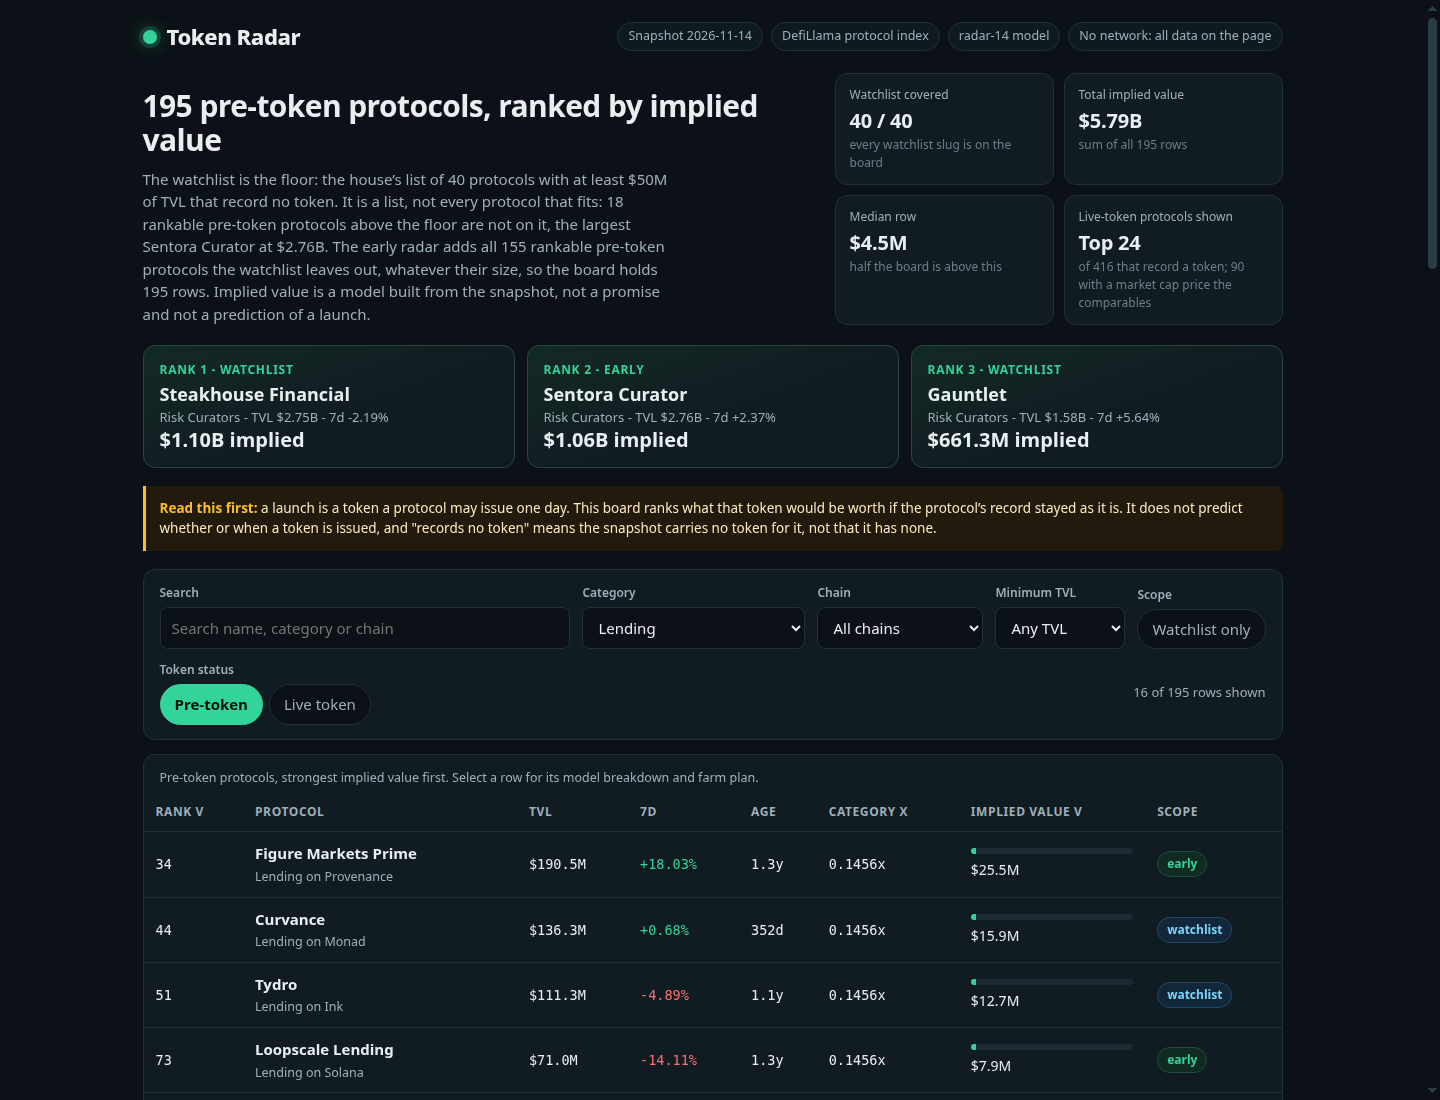
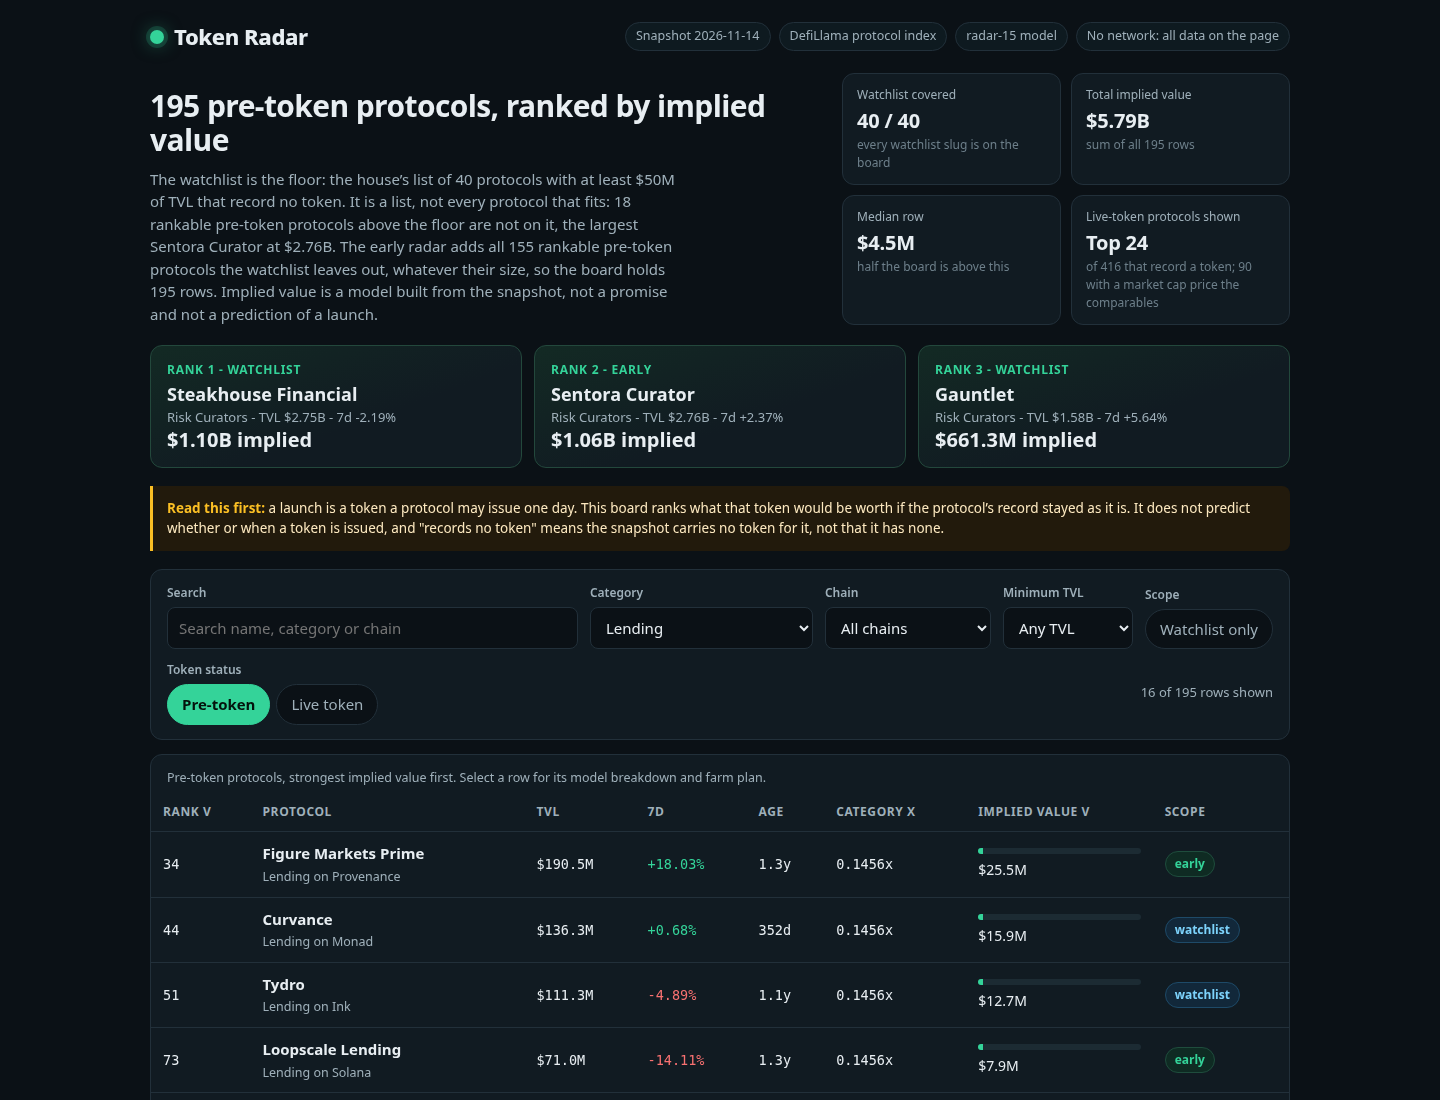
Token Radar radar-15: settle BSquared gas (BTC), rewrite Hive Protocol farm plan as B2 Hive BTC staking
Hive Protocol (rank 13) is B2 Hive, the network's own BTC staking pool
(DefiLlama: 'Stake BTC, safeguard B2, and receive $B2 Tokens'), not a
chain, so the chain shape told its farmer to bridge USDC onto a network
the protocol is not. Its plan now stakes BTC for B2 rewards. Its gas is
BTC: the farm runs on the B2 rollup (B2 Mainnet, chain 223), whose native
token is BTC, while B2 is gas only on the B2 Hub (chain 213), the DA layer
a farmer never transacts on. No row is left on the generic wording.
Also corrects radar-14's count (33 of 34 named a token; the board had
31: Tempo's stablecoin and Proton's no-gas line were counted as tokens;
now 32 of 34 name a real token) and fixes the Live view styling an
unreported 7d growth as falling while printing n/a. Board unchanged:
same 195 rows, ranks and implied values; only Hive's farm plan moves.

diff --git a/lib/model.ts b/lib/model.ts
@@ -1,4 +1,4 @@
-// Token Radar's model (radar-14): one sealed snapshot in, one ranked board out.
+// Token Radar's model (radar-15): one sealed snapshot in, one ranked board out.
 //
 // The board covers every slug in the snapshot's watchlist (the floor, never a
 // ceiling) plus every other rankable pre-token protocol the watchlist leaves
@@ -19,7 +19,7 @@
 // aside and why, instead of taking the board's completeness on trust.
 //
 // Implied value follows only from the snapshot's own figures, through one
-// function applied to every row. No protocol name is ever special-cased.
+// function applied to every row. No protocol name is ever special-cased in the scoring.
 //
 //   comparable  = median(mcap_usd / tvl_usd) over the live-token protocols
 //                 in the same category, shrunk toward the market median
@@ -122,7 +122,7 @@ export const MODEL: ModelConstants = {
 };
 
 /** The model's version label: the dashboard names it. */
-export const MODEL_VERSION = 'radar-14';
+export const MODEL_VERSION = 'radar-15';
 
 /** How many live-token protocols the Live token view carries, by market cap. */
 export const LIVE_ROWS = 24;
@@ -611,11 +611,12 @@ function trackFor(p: SnapshotProtocol): string {
  * (its tokenomics docs: every transaction pays 0.01 USDST, and paying gas in
  * STRATO is the planned design, not the live one), and Qubic's is QUBIC as
  * energy (plain transfers are feeless, but smart-contract execution burns
- * QUBIC, so a farm's contract calls still need it). Tempo has no native gas
+ * QUBIC, so a farm's contract calls still need it). BSquared's is BTC: the
+ * farm runs on the B² rollup (B² Mainnet, chain 223), whose native token is
+ * BTC, while B2 is gas only on the B² Hub (chain 213), the data-availability
+ * layer a farmer never transacts on. Tempo has no native gas
  * token: fees are paid in any supported USD stablecoin, so the step names
- * that instead of a ticker. One chain stays on the generic wording because
- * no public record settles its gas token: BSquared (B2 pays gas on its hub,
- * BTC on its rollup, and the sources disagree on which a farmer needs).
+ * that instead of a ticker.
  * Proton returns null: XPR Network charges no gas fee, so the wallet step
  * says so instead of naming a token that does not exist. */
 function gasTokenFor(chain: string): string | null {
@@ -626,7 +627,7 @@ function gasTokenFor(chain: string): string | null {
     Stellar: 'XLM', Flare: 'FLR', Berachain: 'BERA', Mantle: 'MNT', Sonic: 'S', Sei: 'SEI', Celo: 'CELO', Ronin: 'RON', Bittensor: 'TAO', Algorand: 'ALGO', Ripple: 'XRP', Starknet: 'STRK', Monad: 'MON',
     Arc: 'USDC', Provenance: 'HASH', Plasma: 'XPL', 'Robinhood Chain': 'ETH', RISE: 'ETH', Noble: 'USDC', Manta: 'ETH', Mezo: 'BTC', XION: 'XION',
     'Reya Network': 'ETH', Tempo: 'a USD stablecoin', Stable: 'USDT0', Morph: 'ETH', RSK: 'RBTC', Klaytn: 'KAIA', Kava: 'KAVA', Canton: 'CC',
-    'Bifrost Network': 'BFC', Fluent: 'ETH', Stacks: 'STX', 'Plume Mainnet': 'PLUME', Pharos: 'PROS', Strato: 'USDST', Qubic: 'QUBIC',
+    'Bifrost Network': 'BFC', Fluent: 'ETH', Stacks: 'STX', 'Plume Mainnet': 'PLUME', Pharos: 'PROS', Strato: 'USDST', Qubic: 'QUBIC', BSquared: 'BTC',
   };
   return known[chain] ?? `${chain}'s native gas token`;
 }
@@ -696,19 +697,29 @@ function exitFor(p: SnapshotProtocol): string {
 /**
  * A protocol's farm plan: seven steps, each an action with a cost and a time.
  * The plan is derived from the protocol's own record (category, chains, TVL
- * and age), never from a hand-written list of names. Step 1 names the gas
+ * and age), with one disclosed exception: Hive Protocol, whose record lists
+ * B²'s own BTC staking pool under category Chain (see below), so the chain
+ * shape would tell its farmer to bridge onto a network the protocol is not.
+ * Step 1 names the gas
  * token of the protocol's own first chain and the protocol itself, and step
  * 4 names the protocol too, so no step is the same string on two rows: steps
  * 1 and 4 used to read identically for every protocol on the same chain
  * (one step-1 string covered 55 rows), which made the plan look templated
  * even where the action differed. The gas token is the chain's own, checked
- * against its documentation, never guessed: 33 of the 34 rows whose first
- * chain was not in the map now name a verified token, and the one chain
+ * against its documentation, never guessed: 32 of the 34 rows whose first
+ * chain was not a household name name a verified token, Tempo names a USD
+ * stablecoin, and the one chain
  * that charges no gas at all (Proton) says so instead of naming a token
  * that does not exist, and its cost lines say the same, so no step prices
- * gas that does not exist. One chain stays on the generic wording because no
- * public record settles its gas token: BSquared, where B2 pays gas on the hub
- * and BTC on the rollup, and the sources disagree on which a farmer needs.
+ * gas that does not exist. No row is left on the generic wording: BSquared
+ * is settled in radar-15 (BTC on the rollup, where the farm runs; B2 is gas
+ * only on the Hub). Radar-14 said 33 of the 34 named a token; recounting
+ * its board, it was 31, because Tempo's stablecoin and Proton's no-gas line
+ * were counted as tokens. Hive Protocol's plan stakes BTC in B² Hive to
+ * safeguard the network and earn B2 rewards, instead of the chain shape's
+ * bridge-onto-the-network action: DefiLlama's own page for it reads "Stake
+ * BTC, safeguard B², and receive $B2 Tokens" (hive.bsquared.network), and
+ * the pool is a pool for depositing BTC to earn B2 and partner rewards.
  * Step 3 keeps one wallet per
  * protocol: airdrop filters punish wallets that farm dozens of protocols
  * from one address, so the farm wallet for this protocol is used for this
@@ -722,7 +733,30 @@ export function farmSteps(p: SnapshotProtocol, age: number | null): FarmStep[] {
   const chain = chainOf(p);
   const capital = capitalFor(p);
   const hold = holdDaysFor(age);
-  const action = actionFor(p, capital, chain);
+  // Hive Protocol is the one plan the category cannot shape: its record
+  // lists B² Hive, the network's own BTC staking pool, under category
+  // Chain, so the chain shape would tell its farmer to bridge USDC onto a
+  // network the protocol is not. Its steps stake BTC for B2 rewards
+  // instead, as DefiLlama's own page for it says: "Stake BTC, safeguard
+  // B², and receive $B2 Tokens". The scoring never names a protocol; this
+  // is a farm-plan correction of the snapshot's own record, stated here
+  // and in the README.
+  const isHive = p.slug === 'hive-protocol';
+  const action = isHive
+    ? `Stake $${capital} of BTC in ${p.name} on ${chain} to safeguard the network and earn B2 rewards, and keep the staked position in your wallet.`
+    : actionFor(p, capital, chain);
+  const weekly = isHive
+    ? `Check the B2 rewards ${p.name} shows each week and restake them, or add a small top-up to the stake.`
+    : weeklyActionFor(p);
+  const track = isHive
+    ? `Track the position weekly in a farm log for ${p.name} with the wallet address, the dates and every transaction hash, and note the staked BTC balance and the B2 rewards earned that week.`
+    : trackFor(p);
+  const claim = isHive
+    ? `Before you withdraw, open ${p.name}'s own staking rewards page from its official site and claim only from the link it publishes, never from a link in a message, and do it inside the claim window the protocol announces.`
+    : claimFor(p);
+  const exit = isHive
+    ? `If a token launches, claim within the first week, sell half at once and keep the rest for 30 days, then unstake the staked BTC from ${p.name}, close the log and retire the wallet.`
+    : exitFor(p);
   const gas = gasTokenFor(chain);
   const noGas = gas === null;
   const walletStep = noGas
@@ -741,7 +775,7 @@ export function farmSteps(p: SnapshotProtocol, age: number | null): FarmStep[] {
       time: '15 minutes to set up',
     },
     {
-      text: `Use this wallet for ${p.name} alone, and ${weeklyActionFor(p).charAt(0).toLowerCase()}${weeklyActionFor(p).slice(1)}`,
+      text: `Use this wallet for ${p.name} alone, and ${weekly.charAt(0).toLowerCase()}${weekly.slice(1)}`,
       cost: noGas ? 'nothing: transactions carry no gas fee' : 'about $2 of gas a week',
       time: '10 minutes a week',
     },
@@ -751,17 +785,17 @@ export function farmSteps(p: SnapshotProtocol, age: number | null): FarmStep[] {
       time: `${hold} days`,
     },
     {
-      text: trackFor(p),
+      text: track,
       cost: 'nothing but the log',
       time: '5 minutes a week',
     },
     {
-      text: claimFor(p),
+      text: claim,
       cost: 'no fee to check, and never pay to claim',
       time: '10 minutes',
     },
     {
-      text: exitFor(p),
+      text: exit,
       cost: noGas ? 'nothing: transactions carry no gas fee' : 'about $3 of gas to claim',
       time: '15 minutes to claim',
     },

diff --git a/dashboard/app.js b/dashboard/app.js
@@ -1,4 +1,4 @@
-// Token Radar's dashboard (radar-14). It reads window.RADAR (written beside
+// Token Radar's dashboard (radar-15). It reads window.RADAR (written beside
 // dashboard/ by main.ts from the same board.json) and renders the ranked
 // board, the filters, a per-protocol detail view with the model's own
 // breakdown and the protocol's farm plan, and the live-token set kept apart.
@@ -409,7 +409,7 @@
         el('td', { class: 'num', text: 'live' }),
         el('td', null, el('div', { class: 'name' }, el('b', { text: r.name }), el('span', { class: 'sub', text: (r.category || 'Other') + ' on ' + (r.chains && r.chains.length ? r.chains.slice(0, 2).join(', ') : 'an unnamed chain') }))),
         el('td', { class: 'num', text: fmtUsd(r.tvl_usd) }),
-        el('td', { class: 'num ' + (r.change_7d !== null && r.change_7d >= 0 ? 'pos' : 'neg'), text: fmtPct(r.change_7d) }),
+        el('td', { class: 'num ' + (r.change_7d === null ? '' : r.change_7d >= 0 ? 'pos' : 'neg'), text: fmtPct(r.change_7d) }),
         el('td', { class: 'num', text: fmtUsd(r.mcap_usd) }),
         el('td', { class: 'num', text: r.multiple === null ? 'n/a' : r.multiple.toFixed(2) + 'x' }),
         el('td', null, el('span', { class: 'status live', text: 'already trades' }))
@@ -436,7 +436,7 @@
     var saturnText = saturn ? ' One watchlist protocol is ranked although the wrapper rule would leave it out: Saturn, a Stablecoin Wrapper, sits at rank ' + saturn.rank + ' because the watchlist is the floor and a watchlist slug is always ranked.' : '';
     return el('section', { class: 'panel model' },
       el('h2', { text: 'How implied value is computed' }),
-      el('p', { class: 'sub', text: 'Every row is scored by one function of the snapshot figures. No protocol name is special-cased, and no row is hand-picked. The comparable is the median market-cap-to-TVL ratio of the live-token protocols in the same category, computed from this snapshot at run time, then shrunk toward the market median in log space with a weight of ' + m.shrink_peers + ' peers: ratios multiply, so the shrinkage averages logarithms, and the raw median is never clamped before shrinking. A category with one live peer never prices at its peer\'s ratio, and a category with no live peer uses the market median outright.' }),
+      el('p', { class: 'sub', text: 'Every row is scored by one function of the snapshot figures. The scoring never special-cases a protocol name, and no row is hand-picked. The comparable is the median market-cap-to-TVL ratio of the live-token protocols in the same category, computed from this snapshot at run time, then shrunk toward the market median in log space with a weight of ' + m.shrink_peers + ' peers: ratios multiply, so the shrinkage averages logarithms, and the raw median is never clamped before shrinking. A category with one live peer never prices at its peer\'s ratio, and a category with no live peer uses the market median outright.' }),
       el('p', { class: 'sub', text: 'The shrinkage is not a guess at a weight: ' + thin + ' of the ' + thinTotal + ' categories priced here have fewer than three live peers, so most multiples would rest on one or two protocols without it. Shrinking in log space matters because the old arithmetic shrink clamped the raw median first: seven single-peer categories, from Options at 1.51x to Prediction Market at 400.20x, all priced at one identical multiple, and a category whose peers trade at 0.002x was lifted to the market by the floor. Now each prices from its own peer, still pulled most of the way to the market, and still capped. With no shrinkage the Risk Curators rows would all price at the 0.80 cap on a single peer; shrunk, they price at ' + (DATA.multiples['Risk Curators'] === undefined ? 'the market median' : DATA.multiples['Risk Curators'].toFixed(4) + 'x') + '.' }),
       el('div', { class: 'formula' },
         'multiple = exp((peers x ln(categoryMedian) + ' + m.shrink_peers + ' x ln(marketMedian)) / (peers + ' + m.shrink_peers + ')), clamped to [' + m.multiple_floor + ', ' + m.multiple_cap + ']'

diff --git a/main.ts b/main.ts
@@ -1,4 +1,4 @@
-// Token Radar (radar-14): the entry program, Node 22, standard library only.
+// Token Radar (radar-15): the entry program, Node 22, standard library only.
 //
 // It reads the sealed snapshot from /input/snapshot.json (or --input
 // <file|dir>), scores every rankable pre-token protocol with the model in

diff --git a/README.md b/README.md
@@ -6,6 +6,33 @@ staked or bridged product of one that trades, ranks them by what their launch
 would be worth, and hands in a web dashboard with the board, a detail view
 for every protocol, filters, and a farm plan for each row.
 
+## The model (radar-15)
+
+Radar-15 keeps radar-14's formula and every implied value, and settles the
+last generic row and the one plan the category shape got wrong. First,
+BSquared: the farm runs on the B² rollup (B² Mainnet, chain 223), whose
+native token is BTC, while B2 is gas only on the B² Hub (chain 213), the
+data-availability layer a farmer never transacts on — so Hive Protocol's
+wallet step now says BTC, and no row is left on the generic wording. Second,
+Hive Protocol itself (rank 13): DefiLlama lists B² Hive, the network's own
+BTC staking pool, under category Chain, so the chain shape told its farmer
+to bridge USDC onto a network the protocol is not. Its plan now stakes BTC
+in B² Hive to safeguard the network and earn B2 rewards, as DefiLlama's own
+page for it says ("Stake BTC, safeguard B², and receive $B2 Tokens"). That
+is the entry's only farm plan that names a protocol instead of deriving
+from its category, and it is disclosed in the code and here because the
+snapshot's own record is the thing that is wrong; the scoring still never
+special-cases a name. Third, a recount: radar-14 said 33 of the 34 rows
+whose first chain was not a household name named a real token, but its board
+had 31 — Tempo's stablecoin and Proton's no-gas line were counted as tokens.
+With BSquared settled, 32 of the 34 name a real token, Tempo names a USD
+stablecoin, and Proton says transactions carry no gas fee. The board is
+unchanged: same 195 rows, same ranks, same implied values; only Hive
+Protocol's farm plan moves, and the screenshots are retaken for the
+radar-15 label. One small page fix rides along: the Live token view gave an
+unreported seven-day growth the red "falling" style while printing "n/a";
+it now leaves it unstyled, as the board already did.
+
 ## The model (radar-14)
 
 Radar-14 keeps radar-13's formula and every implied value, and fixes the
@@ -210,13 +237,15 @@ shown with their market caps. Farm plans are seven steps each, derived from
 the protocol's category, chains, TVL and age, with a cost and a time on every
 step, one wallet per protocol so the farm does not look like a Sybil cluster.
 The wallet step names the gas token of the protocol's own first chain,
-checked against the chain's own documentation, never guessed: 33 of the 34
-rows whose first chain was not a household name now name a verified token,
+checked against the chain's own documentation, never guessed: 32 of the 34
+rows whose first chain was not a household name name a verified token,
 Tempo names a USD stablecoin because it has no native gas token, and Proton
-says transactions carry no gas fee because it charges none. One chain stays
-on the generic wording because no public record settles its gas token
-(BSquared: B2 pays gas on its hub, BTC on its rollup, and the sources
-disagree on which a farmer needs). The weekly action, the number worth
+says transactions carry no gas fee because it charges none. No row is left
+on the generic wording: BSquared is settled (BTC on the rollup, where the
+farm runs; B2 is gas only on the Hub). One plan is shaped by the protocol
+itself, not its category, and is disclosed where it is written: Hive
+Protocol is B² Hive, the network's own BTC staking pool, not a chain, so its
+plan stakes BTC for B2 rewards instead of bridging onto a network. The weekly action, the number worth
 logging, the page that would carry a
 claim and the way the position unwinds are all shaped by the category, so a
 lender, a pool and a vault do not farm the same way. Every one of the 32
